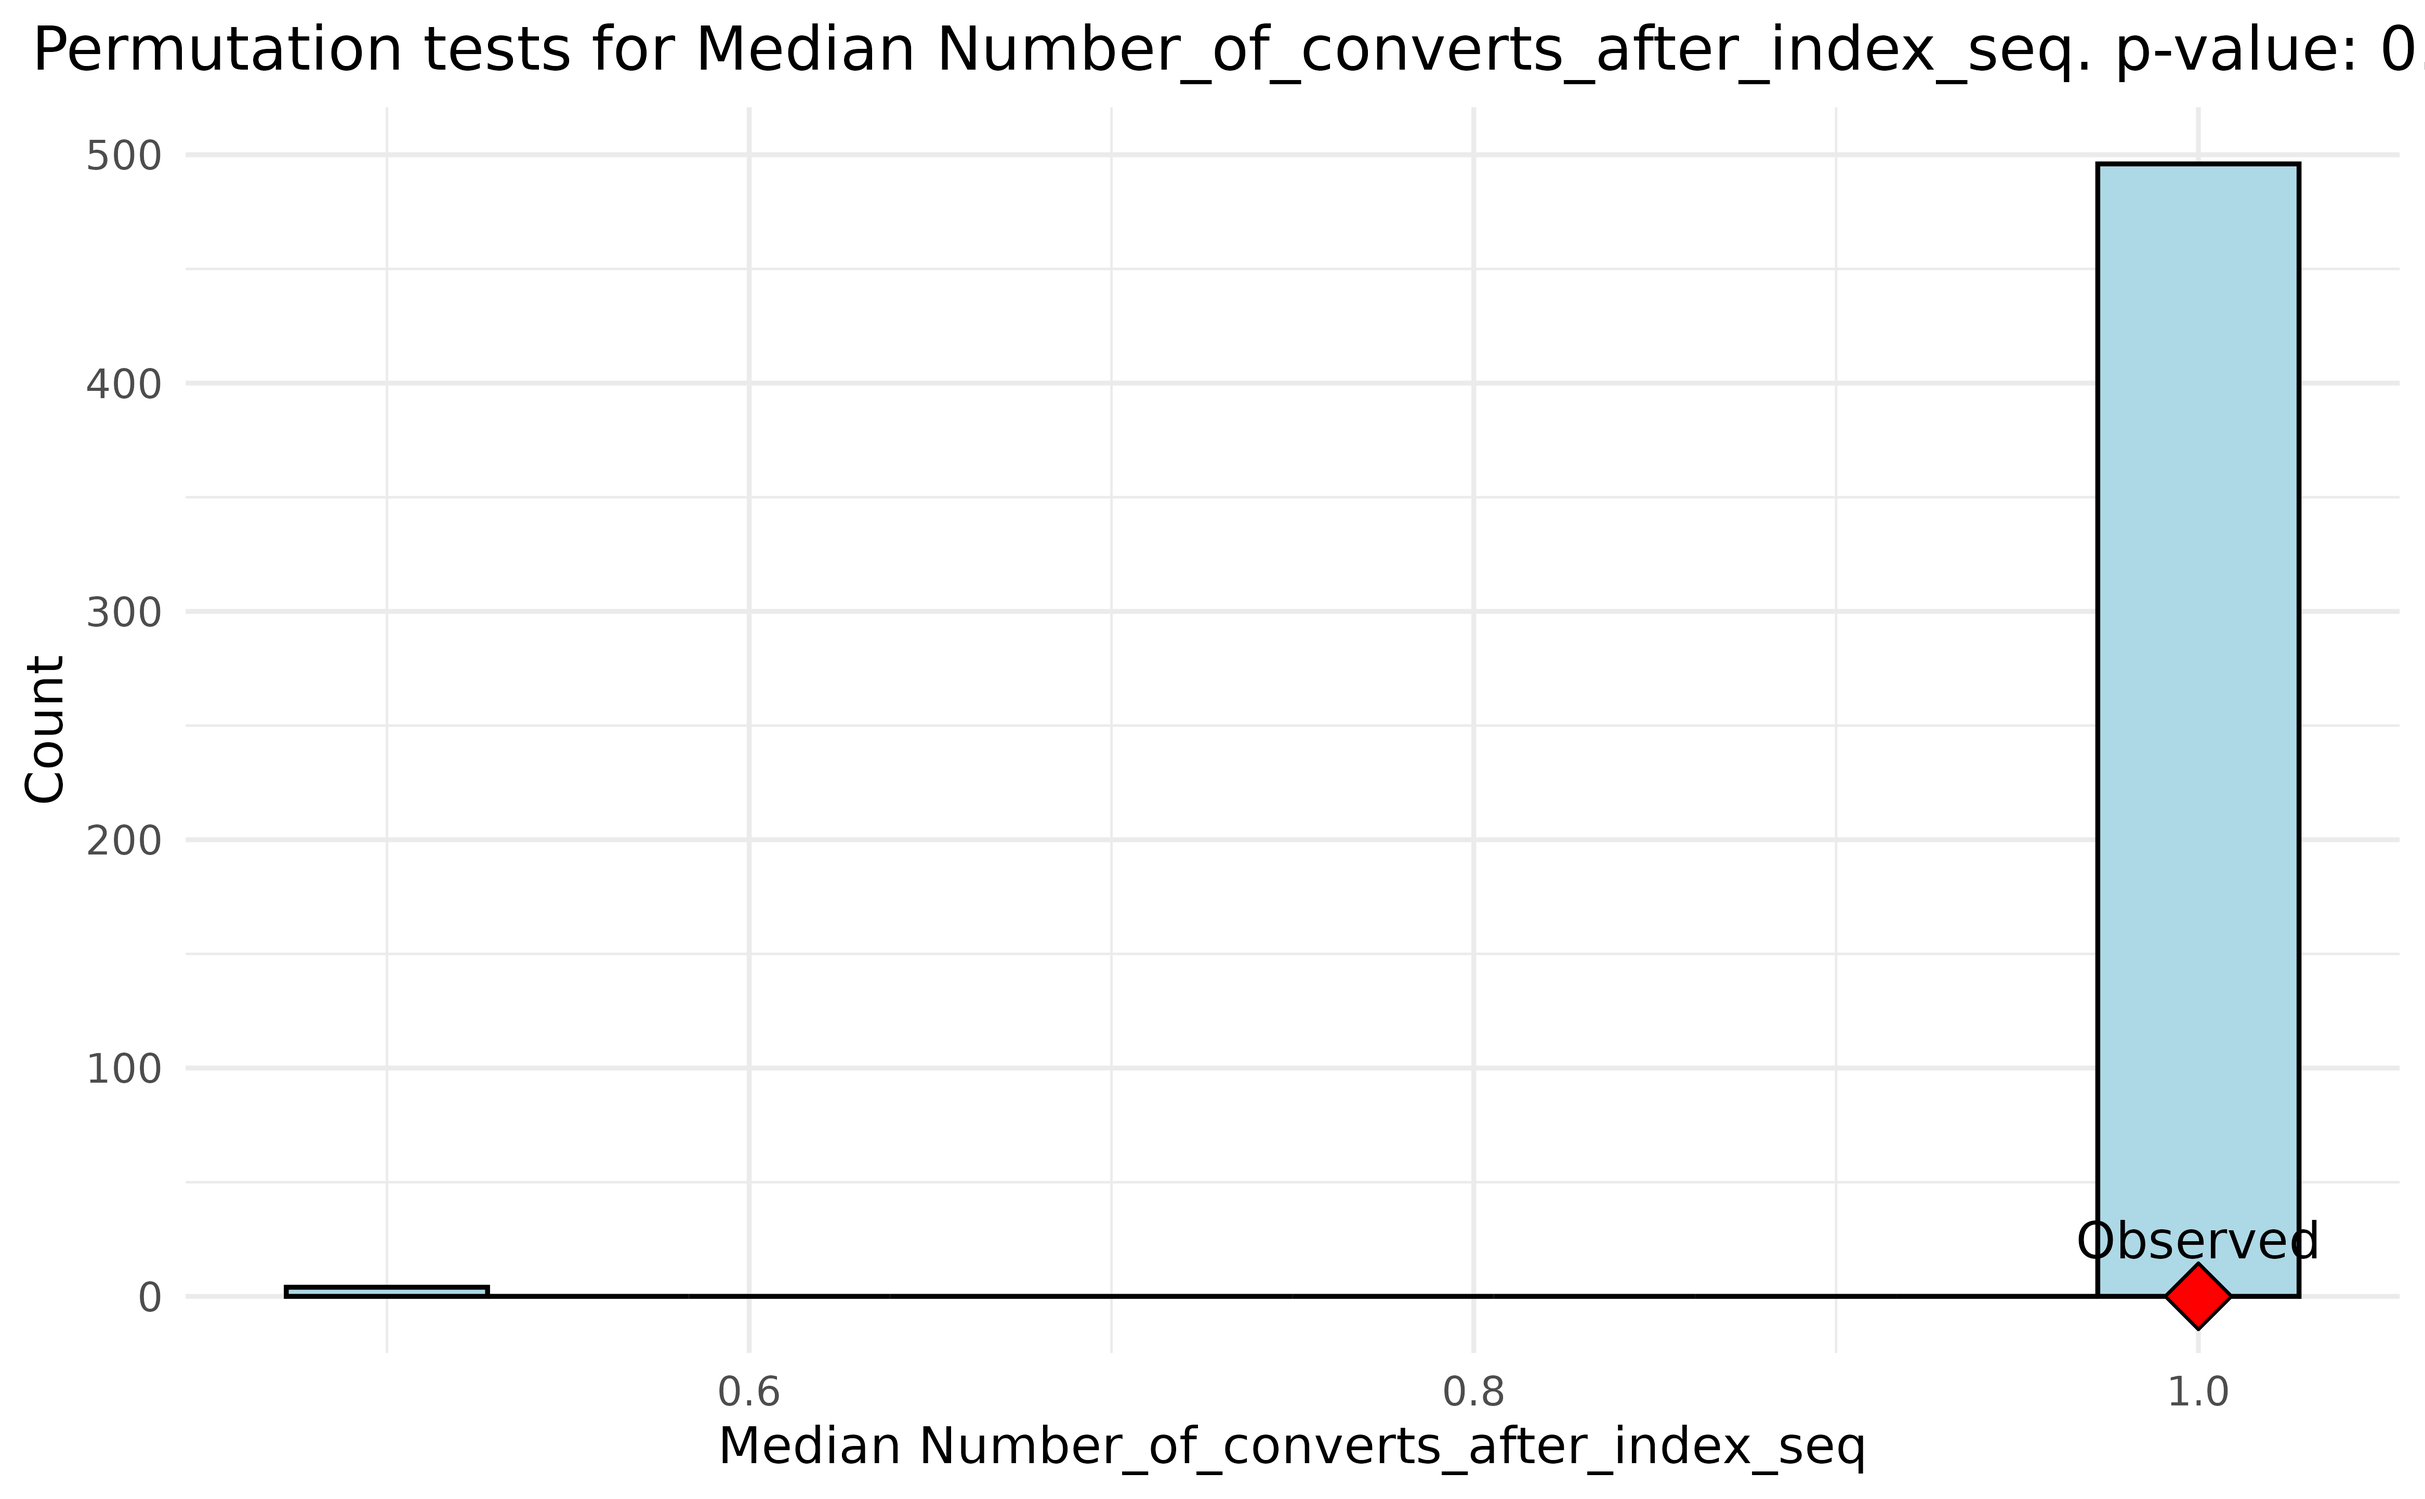
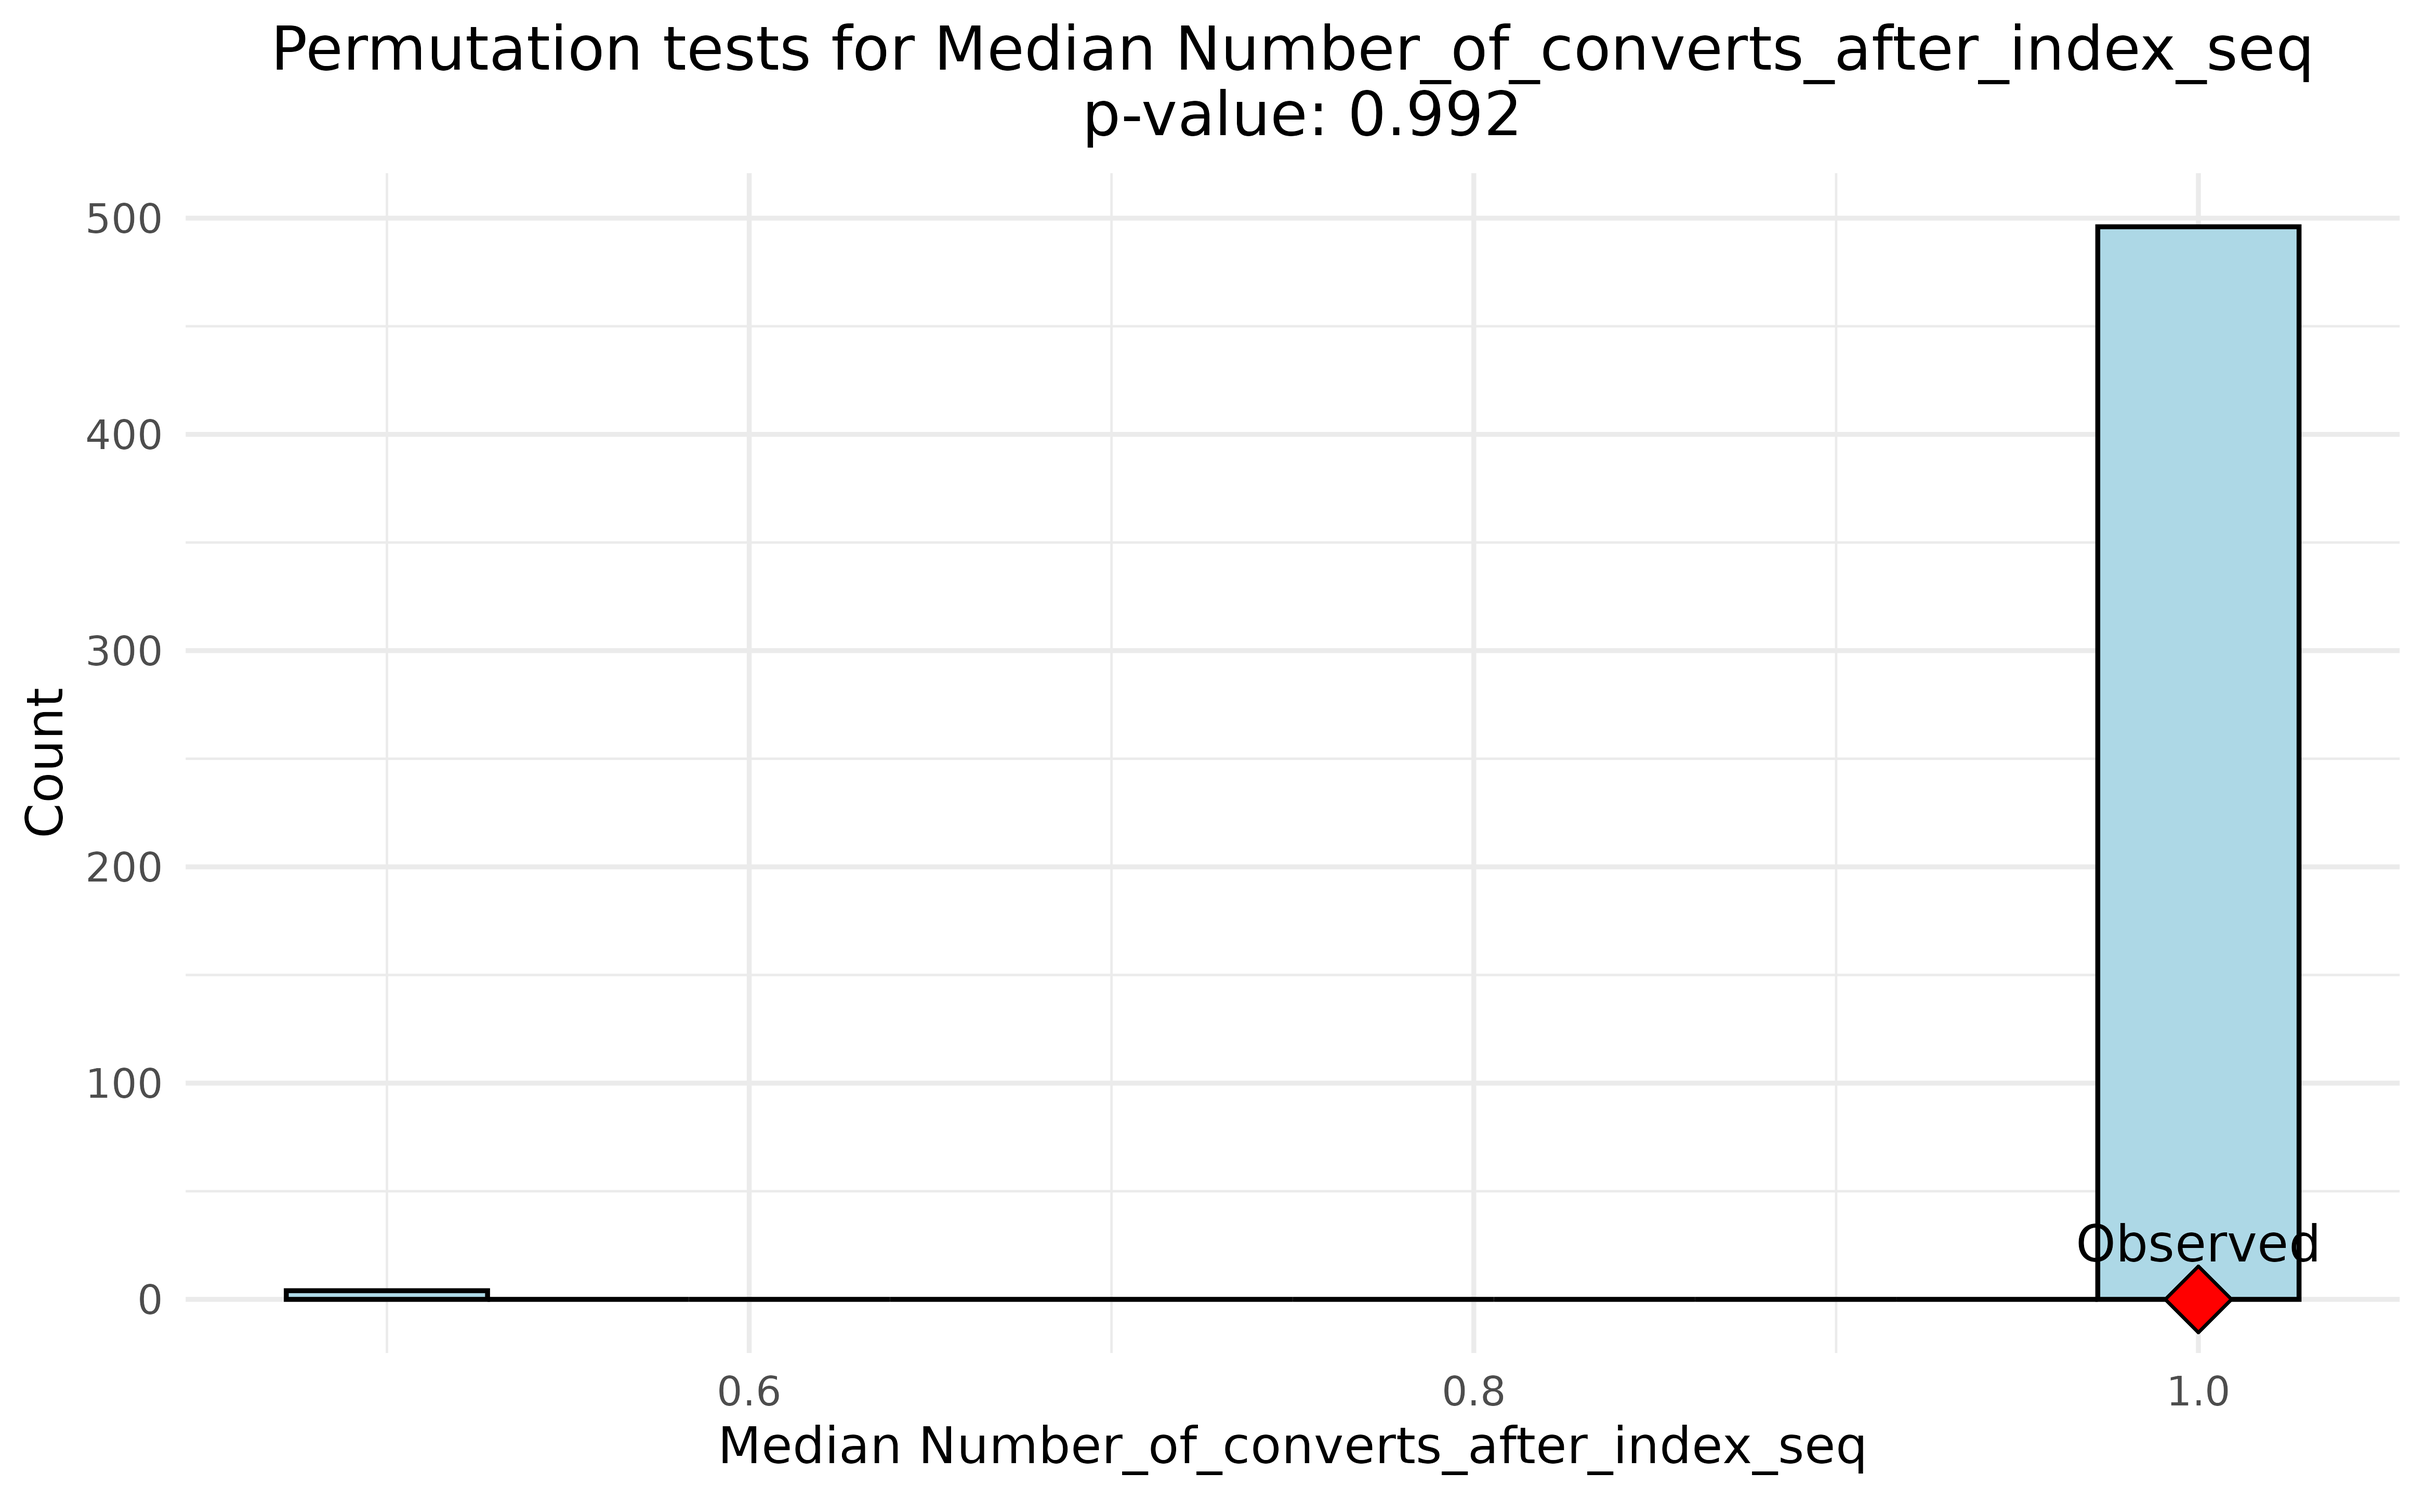
Deploying to gh-pages from @ theabhirath/transclust@a3638b0e3611d37b8ed30dbceef6e92d4b81e291 🚀

diff --git a/articles/permtests.html b/articles/permtests.html
@@ -249,7 +249,7 @@ compares:</p>
 <span>    <span class="fu"><a href="https://ggplot2.tidyverse.org/reference/geom_point.html" class="external-link">geom_point</a></span><span class="op">(</span><span class="fu"><a href="https://ggplot2.tidyverse.org/reference/aes.html" class="external-link">aes</a></span><span class="op">(</span>x <span class="op">=</span> <span class="va">observed_val</span>, y <span class="op">=</span> <span class="fl">0</span><span class="op">)</span>, shape <span class="op">=</span> <span class="fl">23</span>, size <span class="op">=</span> <span class="fl">5</span>, fill <span class="op">=</span> <span class="st">"red"</span><span class="op">)</span> <span class="op">+</span></span>
 <span>    <span class="fu"><a href="https://ggplot2.tidyverse.org/reference/annotate.html" class="external-link">annotate</a></span><span class="op">(</span><span class="st">"text"</span>, x <span class="op">=</span> <span class="va">observed_val</span>, y <span class="op">=</span> <span class="fl">0.5</span>, label <span class="op">=</span> <span class="st">"Observed"</span>, vjust <span class="op">=</span> <span class="op">-</span><span class="fl">1</span><span class="op">)</span> <span class="op">+</span></span>
 <span>    <span class="fu"><a href="https://ggplot2.tidyverse.org/reference/labs.html" class="external-link">labs</a></span><span class="op">(</span></span>
-<span>        title <span class="op">=</span> <span class="fu"><a href="https://rdrr.io/r/base/paste.html" class="external-link">paste0</a></span><span class="op">(</span><span class="st">"Permutation tests for "</span>, <span class="va">prop_name</span>, <span class="st">". p-value: "</span>, <span class="fu"><a href="https://rdrr.io/r/base/Round.html" class="external-link">round</a></span><span class="op">(</span><span class="va">prop_pval</span>, <span class="fl">3</span><span class="op">)</span><span class="op">)</span>,</span>
+<span>        title <span class="op">=</span> <span class="fu"><a href="https://rdrr.io/r/base/paste.html" class="external-link">paste0</a></span><span class="op">(</span><span class="st">"Permutation tests for "</span>, <span class="va">prop_name</span>, <span class="st">"\n p-value: "</span>, <span class="fu"><a href="https://rdrr.io/r/base/Round.html" class="external-link">round</a></span><span class="op">(</span><span class="va">prop_pval</span>, <span class="fl">3</span><span class="op">)</span><span class="op">)</span>,</span>
 <span>        x <span class="op">=</span> <span class="va">prop_name</span>,</span>
 <span>        y <span class="op">=</span> <span class="st">"Count"</span></span>
 <span>    <span class="op">)</span> <span class="op">+</span></span>
@@ -295,7 +295,7 @@ compares:</p>
 <span>    <span class="fu"><a href="https://ggplot2.tidyverse.org/reference/geom_point.html" class="external-link">geom_point</a></span><span class="op">(</span><span class="fu"><a href="https://ggplot2.tidyverse.org/reference/aes.html" class="external-link">aes</a></span><span class="op">(</span>x <span class="op">=</span> <span class="va">observed_val</span>, y <span class="op">=</span> <span class="fl">0</span><span class="op">)</span>, shape <span class="op">=</span> <span class="fl">23</span>, size <span class="op">=</span> <span class="fl">5</span>, fill <span class="op">=</span> <span class="st">"red"</span><span class="op">)</span> <span class="op">+</span></span>
 <span>    <span class="fu"><a href="https://ggplot2.tidyverse.org/reference/annotate.html" class="external-link">annotate</a></span><span class="op">(</span><span class="st">"text"</span>, x <span class="op">=</span> <span class="va">observed_val</span>, y <span class="op">=</span> <span class="fl">0.5</span>, label <span class="op">=</span> <span class="st">"Observed"</span>, vjust <span class="op">=</span> <span class="op">-</span><span class="fl">1</span><span class="op">)</span> <span class="op">+</span></span>
 <span>    <span class="fu"><a href="https://ggplot2.tidyverse.org/reference/labs.html" class="external-link">labs</a></span><span class="op">(</span></span>
-<span>        title <span class="op">=</span> <span class="fu"><a href="https://rdrr.io/r/base/paste.html" class="external-link">paste0</a></span><span class="op">(</span><span class="st">"Permutation tests for "</span>, <span class="va">prop_name</span>, <span class="st">". p-value: "</span>, <span class="fu"><a href="https://rdrr.io/r/base/Round.html" class="external-link">round</a></span><span class="op">(</span><span class="va">prop_pval</span>, <span class="fl">3</span><span class="op">)</span><span class="op">)</span>,</span>
+<span>        title <span class="op">=</span> <span class="fu"><a href="https://rdrr.io/r/base/paste.html" class="external-link">paste0</a></span><span class="op">(</span><span class="st">"Permutation tests for "</span>, <span class="va">prop_name</span>, <span class="st">"\n p-value: "</span>, <span class="fu"><a href="https://rdrr.io/r/base/Round.html" class="external-link">round</a></span><span class="op">(</span><span class="va">prop_pval</span>, <span class="fl">3</span><span class="op">)</span><span class="op">)</span>,</span>
 <span>        x <span class="op">=</span> <span class="va">prop_name</span>,</span>
 <span>        y <span class="op">=</span> <span class="st">"Count"</span></span>
 <span>    <span class="op">)</span> <span class="op">+</span></span>
